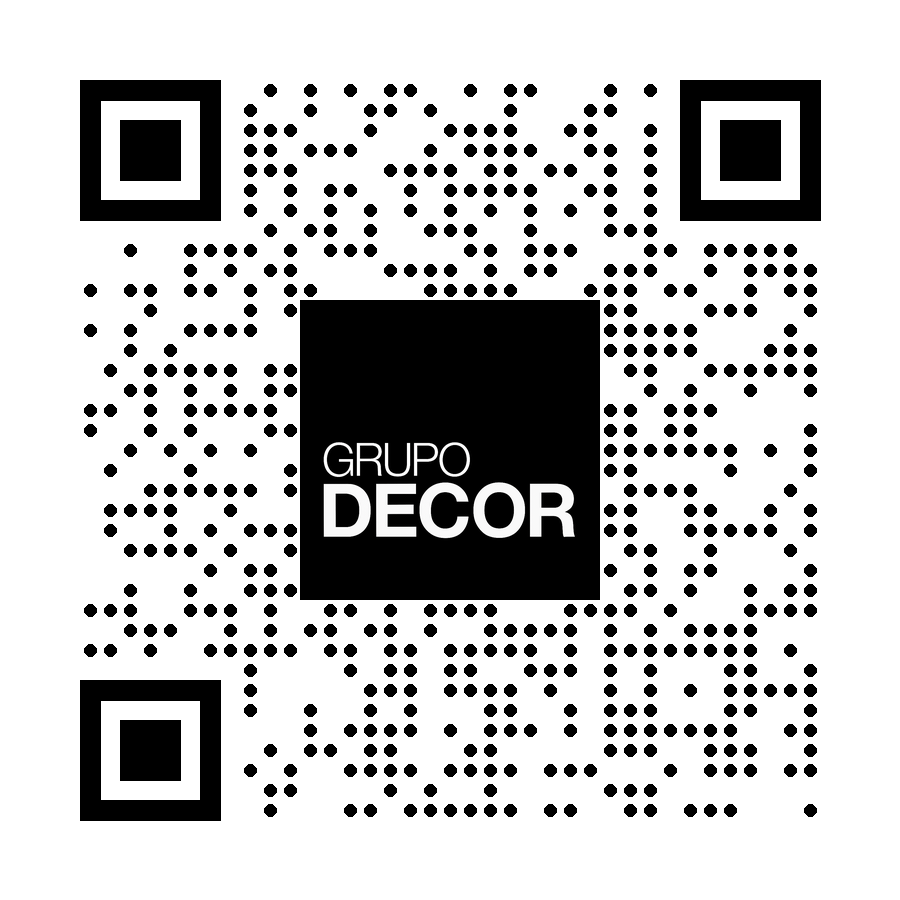
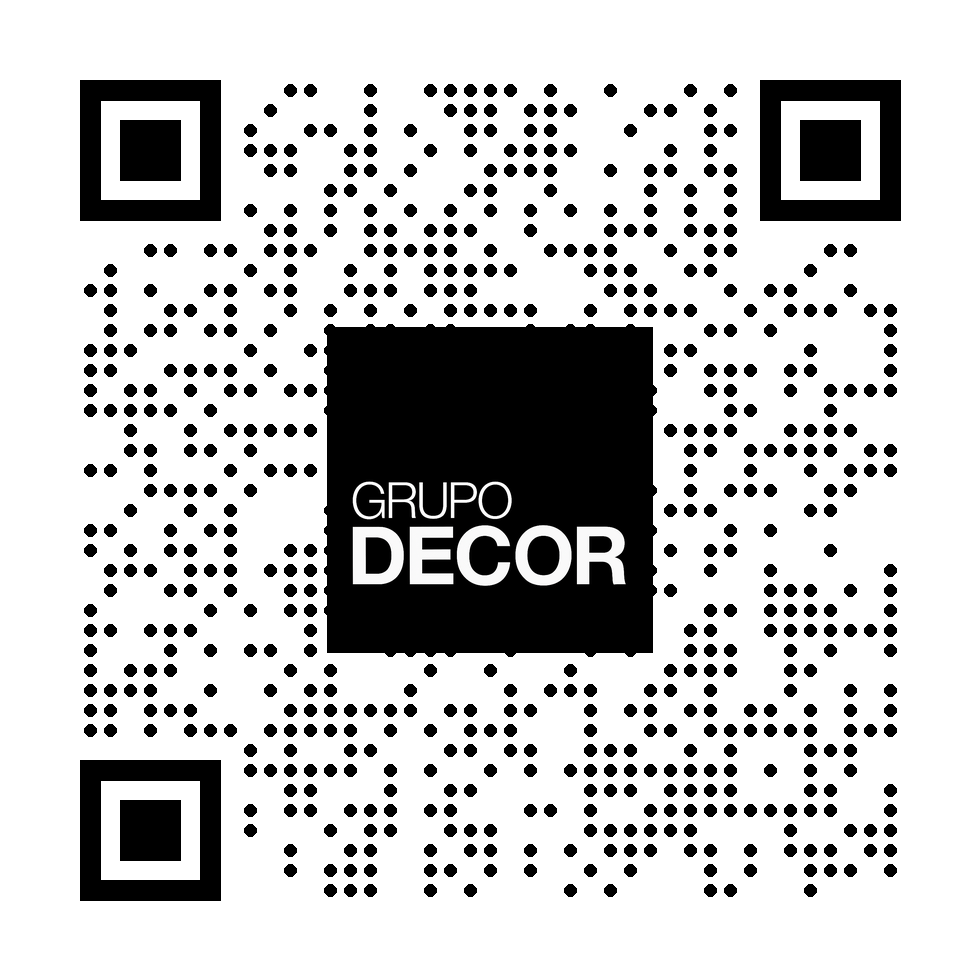
Se modifico el archivo main.py

Changed region(s): [[0.0622, 0.0622, 0.9333, 0.9333], [0.3733, 0.4978, 0.4667, 0.5289], [0.56, 0.56, 0.5911, 0.5911]]

diff --git a/backend/main.py b/backend/main.py
@@ -54,7 +54,7 @@ def startup_event():
             doc_path = os.path.join(folder_path, "documento.pdf")
             if os.path.isdir(folder_path) and os.path.exists(doc_path):
                 qr_path = os.path.join(STATIC_QR_DIR, f"{folder}.png")
-                doc_url = f"http://192.168.122.38:8000/documento/{folder}"
+                doc_url = f"http://proyecto-qr-1-vq6l.onrender.com/documento/{folder}"
                 # Logo específico por carpeta
                 logo_path = os.path.join(LOGOS_DIR, f"{folder}.png")
                 if not os.path.exists(logo_path):
